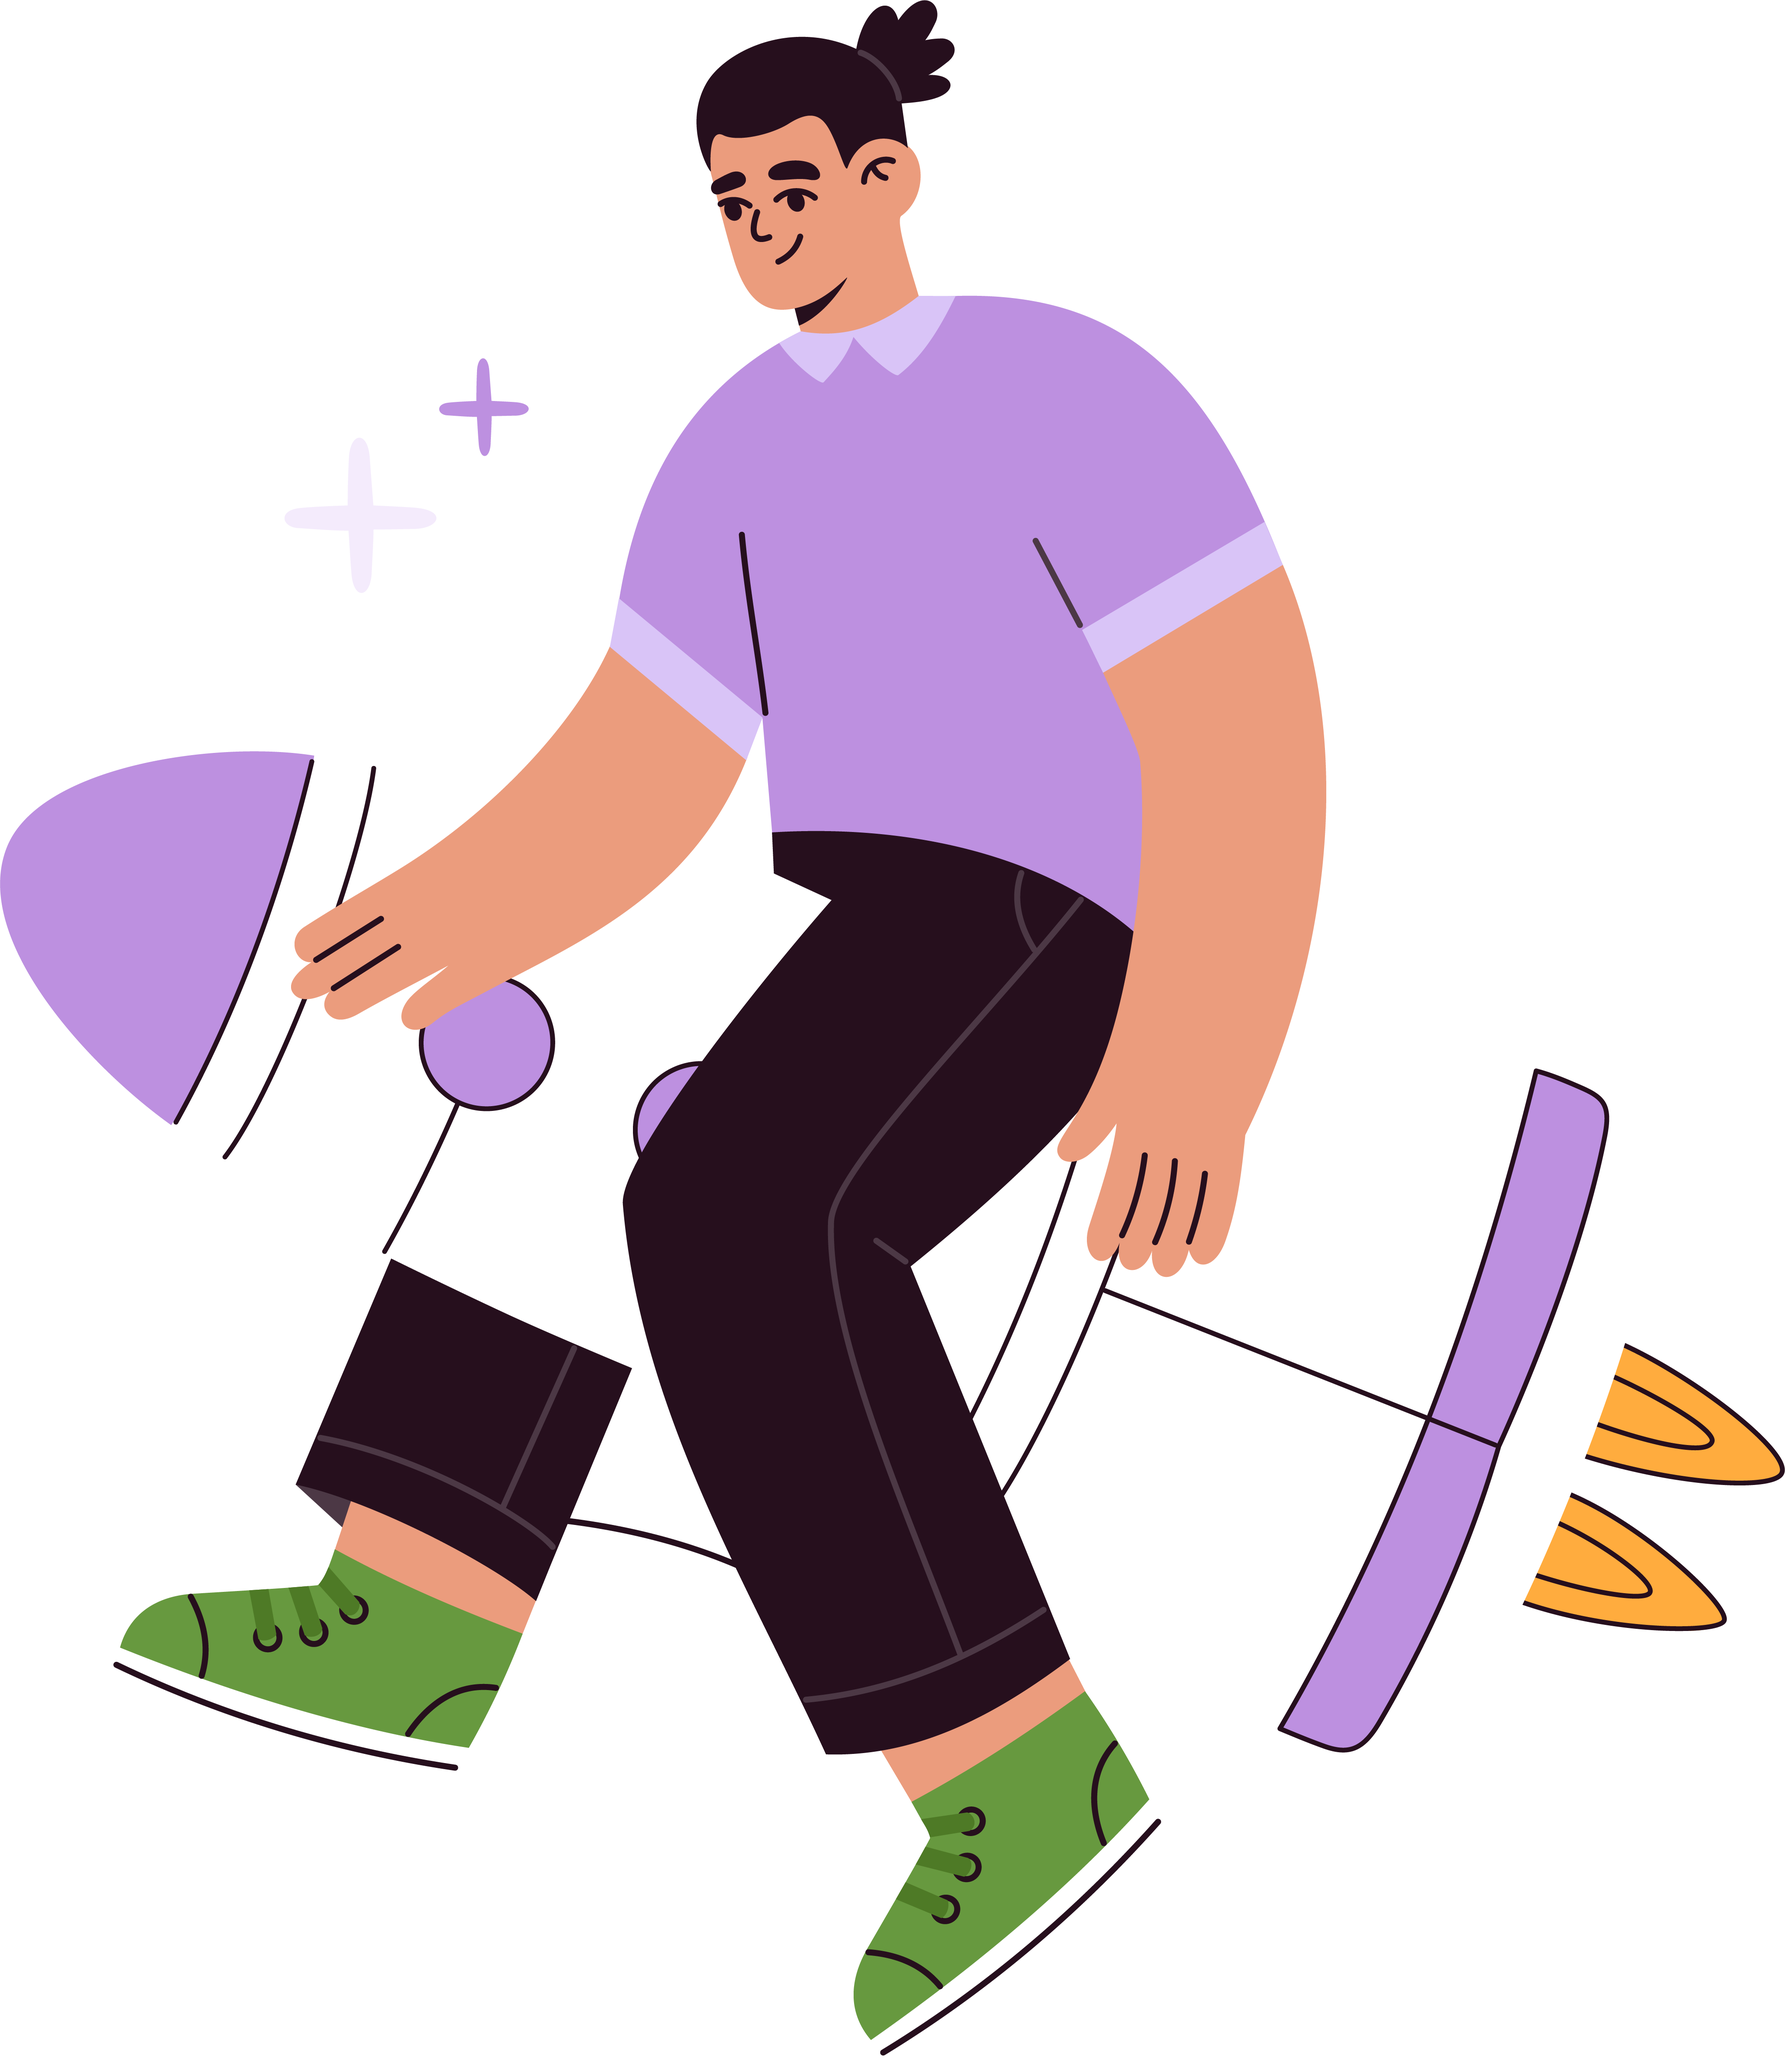
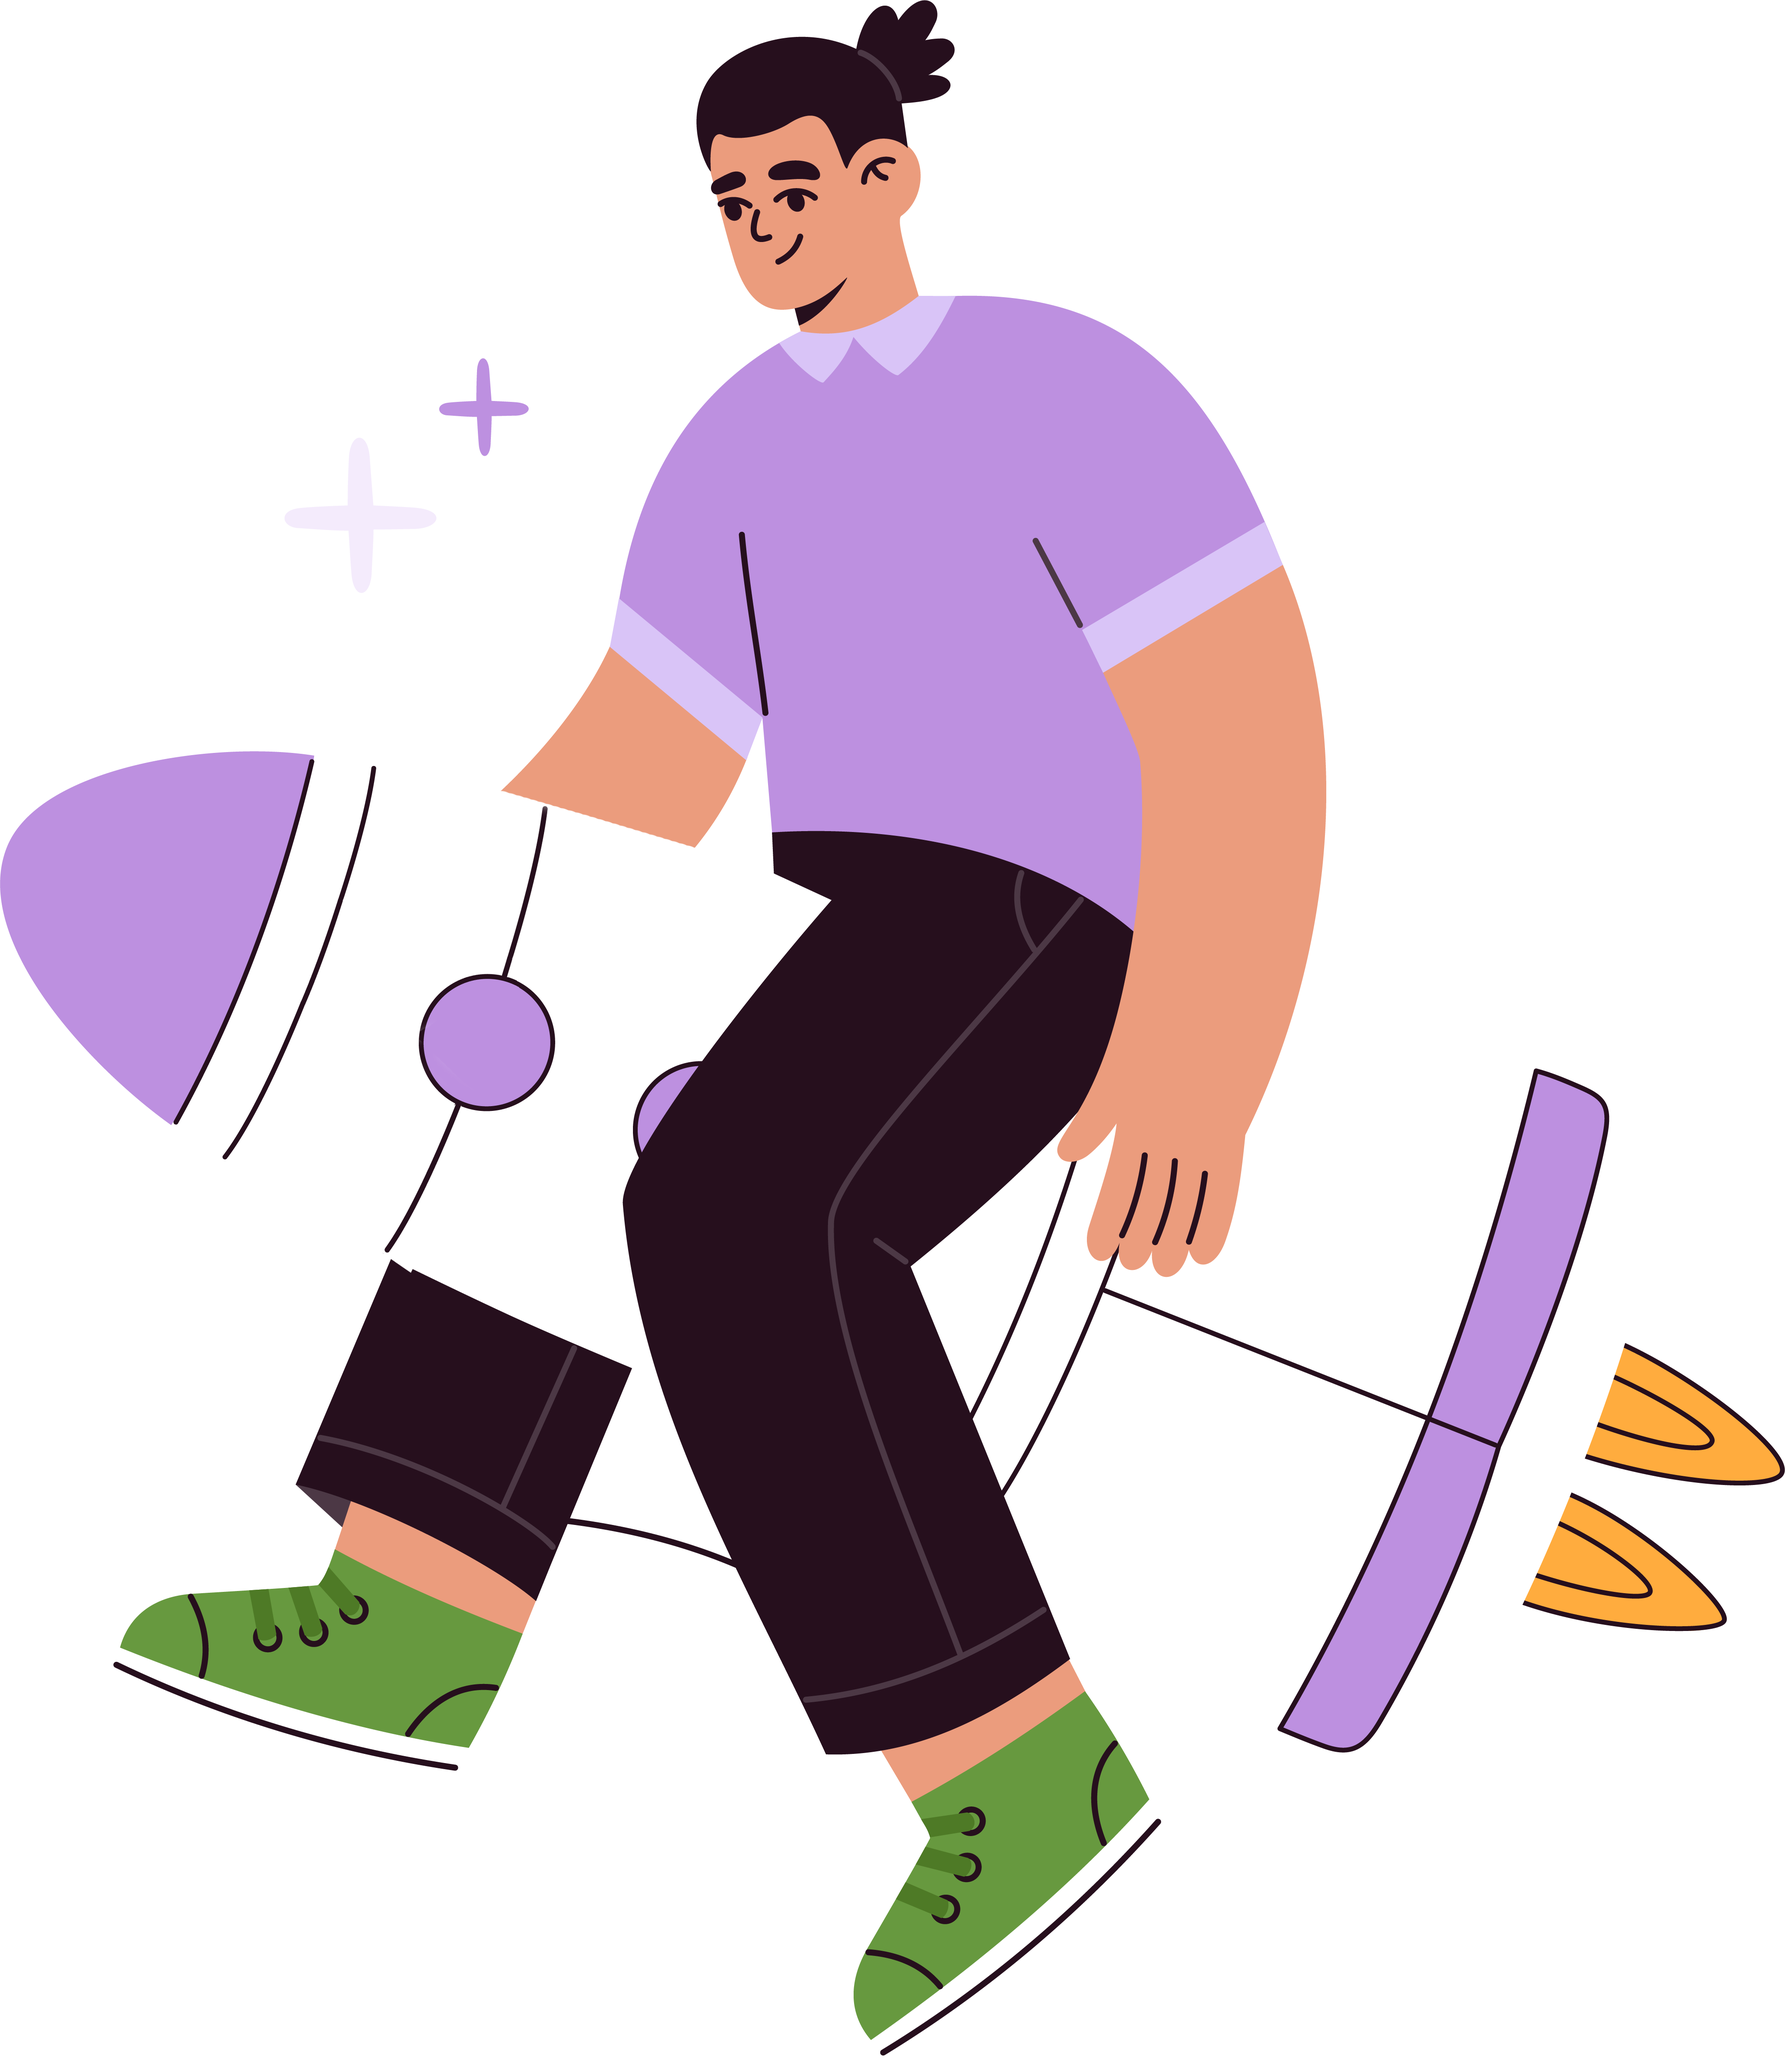
Universities: applying moves to the shortlist only, as proper buttons
Matches is for discovery, so it now offers Shortlist and Research this
course only. Deciding to apply belongs with the courses you've actually
chosen, so 'I'm applying' appears on the shortlist instead, where both
it and Research are now full buttons rather than text links. Remove
stays a quiet link beneath them.

Changed region(s): [[0.1558, 0.3737, 0.405, 0.4982], [0.2181, 0.5605, 0.2492, 0.5916]]

diff --git a/src/pages/UniversityResults.jsx b/src/pages/UniversityResults.jsx
@@ -3,12 +3,12 @@ import { Link, useSearchParams } from 'react-router-dom'
 import { GraduationCap, ChevronLeft, SlidersHorizontal, Sparkles, X } from 'lucide-react'
 import { Card, Button } from '../components/ui'
 import { ReachPill, OfferPill, Place, CourseActions, useToast } from '../components/UniBits'
-import { ResearchModal, ApplyModal } from '../components/CourseModals'
+import { ResearchModal } from '../components/CourseModals'
 import UniSubNav from '../components/UniSubNav'
 import { titleCase } from '../data/heap'
 import {
   loadPrefs, savePrefs, findCourses, gradesToPoints,
-  loadShortlist, saveShortlist, loadPlan, savePlan, loadApplications, saveApplications,
+  loadShortlist, saveShortlist, loadPlan, savePlan,
 } from '../data/universities'
 
 const WHERE = [['home', 'Close to college'], ['nearby', 'Nearby'], ['anywhere', 'Anywhere']]
@@ -38,10 +38,8 @@ export default function UniversityResults() {
   const q = (params.get('q') || '').toLowerCase()
   const [prefs, setPrefs] = useState(loadPrefs)
   const [shortlist, setShortlist] = useState(loadShortlist)
-  const [applications, setApplications] = useState(loadApplications)
   const [limit, setLimit] = useState(24)
   const [researching, setResearching] = useState(null)
-  const [applying, setApplying] = useState(null)
   const [toast, show] = useToast()
 
   const set = (patch) => { const n = { ...prefs, ...patch }; setPrefs(n); savePrefs(n) }
@@ -65,18 +63,11 @@ export default function UniversityResults() {
     setResearching(null)
     show('Added to your timeline — write it up once you\'ve had a look')
   }
-  const apply = (c) => {
-    const next = [...applications, { key: c.key, course: c.CourseName, university: c.University, at: new Date().toISOString() }]
-    setApplications(next); saveApplications(next)
-    setApplying(null)
-    show('Noted — your tutor will pick this up with you')
-  }
 
   return (
     <div className="space-y-5">
       {toast}
       <ResearchModal open={!!researching} course={researching} onClose={() => setResearching(null)} onConfirm={() => plan(researching)} />
-      <ApplyModal open={!!applying} course={applying} onClose={() => setApplying(null)} onConfirm={() => apply(applying)} />
       <UniSubNav />
       <div className="flex flex-wrap items-center justify-between gap-3">
         <div>
@@ -168,13 +159,12 @@ export default function UniversityResults() {
                 ))}
               </ul>
 
+              {/* No "I'm applying" here — that decision belongs on the shortlist */}
               <CourseActions
                 course={c}
                 saved={shortlist.includes(c.key)}
-                applied={applications.some((a) => a.key === c.key)}
                 onSave={() => toggleSave(c)}
                 onPlan={() => setResearching(c)}
-                onApply={() => setApplying(c)}
               />
             </Card>
           ))}

diff --git a/src/pages/UniversityShortlist.jsx b/src/pages/UniversityShortlist.jsx
@@ -82,12 +82,25 @@ export default function UniversityShortlist() {
                       </td>
                       <td className="p-3"><div className="flex flex-col items-start gap-1"><OfferPill course={i.course} /><ReachPill reach={i.reach} /></div></td>
                       <td className="p-3">
-                        <div className="flex flex-col gap-1.5">
-                          <button onClick={() => setResearching(i)} className="flex items-center gap-1 text-xs font-bold text-gray-600 hover:text-purple-700"><Search size={13} /> Research</button>
-                          <button onClick={() => setApplying(i)} className="flex items-center gap-1 text-xs font-bold text-purple-700 hover:text-purple-800">
+                        <div className="flex flex-col items-stretch gap-1.5">
+                          <button
+                            onClick={() => setResearching(i)}
+                            className="flex items-center justify-center gap-1.5 rounded-lg border border-gray-300 px-3 py-1.5 text-xs font-bold whitespace-nowrap text-gray-600 hover:border-purple-400 hover:text-purple-700"
+                          >
+                            <Search size={13} /> Research
+                          </button>
+                          <button
+                            onClick={() => setApplying(i)}
+                            disabled={applications.some((a) => a.key === i.key)}
+                            className={`flex items-center justify-center gap-1.5 rounded-lg px-3 py-1.5 text-xs font-bold whitespace-nowrap ${
+                              applications.some((a) => a.key === i.key)
+                                ? 'bg-gray-100 text-gray-400'
+                                : 'bg-purple-600 text-white hover:bg-purple-700'
+                            }`}
+                          >
                             {applications.some((a) => a.key === i.key) ? <><Check size={13} /> I'm applying</> : <><Send size={13} /> I'm applying</>}
                           </button>
-                          <button onClick={() => remove(i.key)} className="flex items-center gap-1 text-xs text-gray-400 hover:text-red-500"><Trash2 size={13} /> Remove</button>
+                          <button onClick={() => remove(i.key)} className="flex items-center justify-center gap-1 text-xs text-gray-400 hover:text-red-500"><Trash2 size={12} /> Remove</button>
                         </div>
                       </td>
                     </tr>

diff --git a/src/components/UniBits.jsx b/src/components/UniBits.jsx
@@ -60,15 +60,17 @@ export function CourseActions({ course, saved, onSave, onPlan, onApply, applied 
       >
         <Search size={13} /> Research this course
       </button>
-      <button
-        onClick={onApply}
-        disabled={applied}
-        className={`flex items-center gap-1.5 rounded-lg px-3 py-1.5 text-xs font-bold ${
-          applied ? 'bg-gray-100 text-gray-400' : 'bg-purple-600 text-white hover:bg-purple-700'
-        }`}
-      >
-        {applied ? <><Check size={13} /> I'm applying</> : <><Send size={13} /> I'm applying</>}
-      </button>
+      {onApply && (
+        <button
+          onClick={onApply}
+          disabled={applied}
+          className={`flex items-center gap-1.5 rounded-lg px-3 py-1.5 text-xs font-bold ${
+            applied ? 'bg-gray-100 text-gray-400' : 'bg-purple-600 text-white hover:bg-purple-700'
+          }`}
+        >
+          {applied ? <><Check size={13} /> I'm applying</> : <><Send size={13} /> I'm applying</>}
+        </button>
+      )}
     </div>
   )
 }
